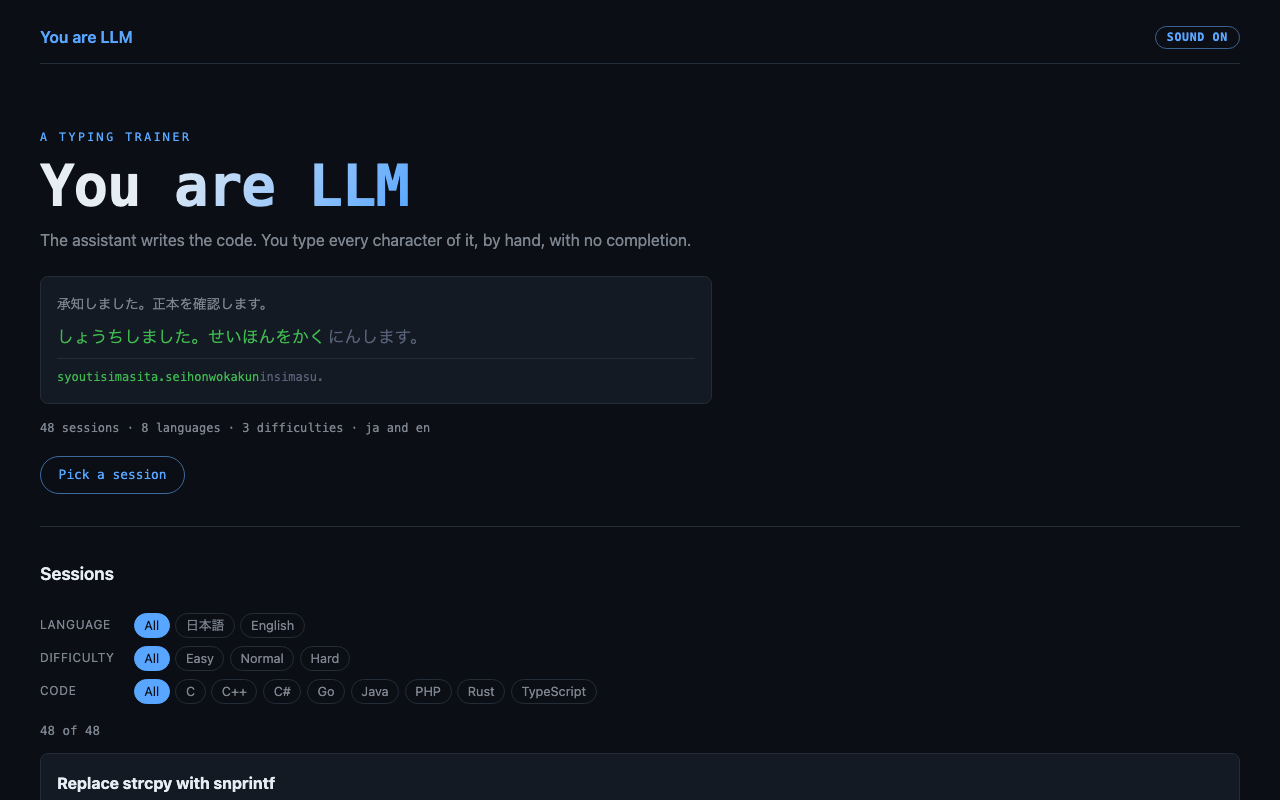
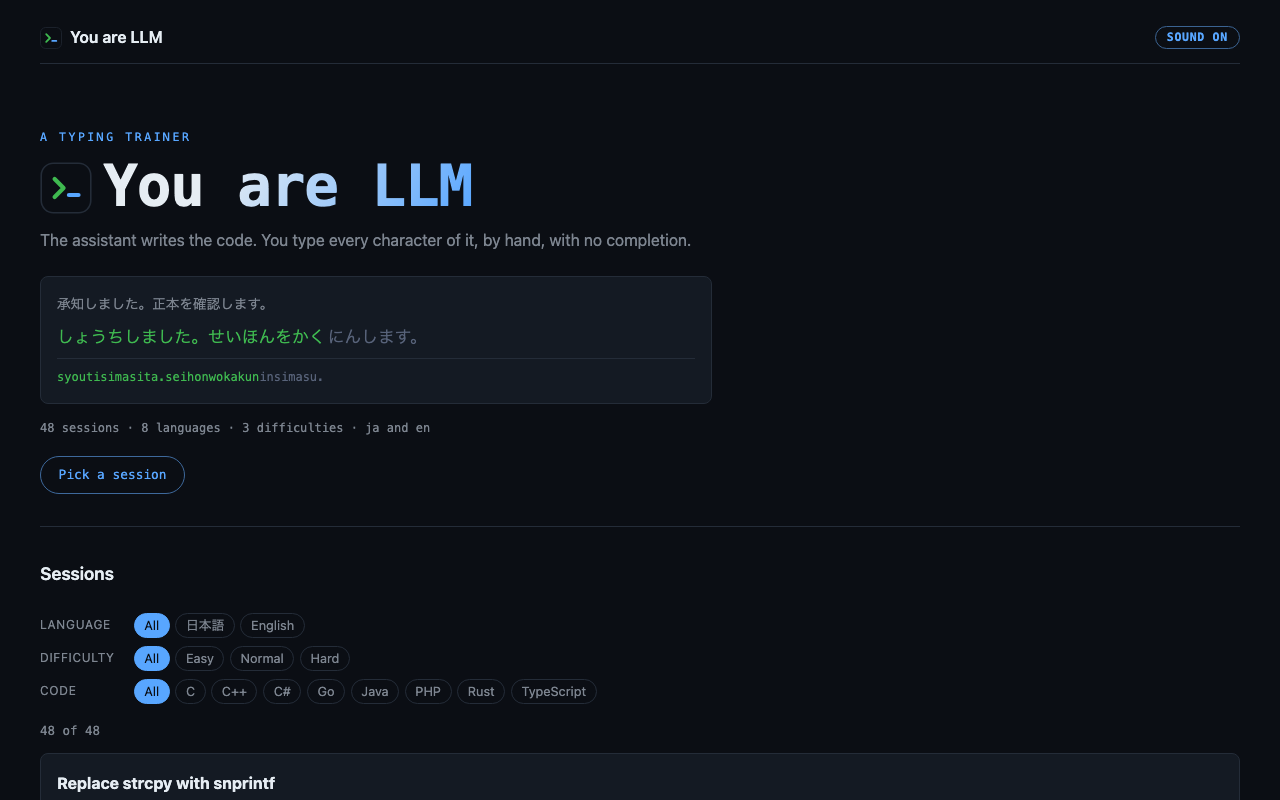
Make a shared session link worth sharing, and give the place a mark
A shared link pointed at a session, and a session fell through to `404.html`.
The page rendered fine for a person, but a crawler handed a 404 shows no
preview at all, and the tags it did find described the front page. Every
session now gets a real page written at build time, in both the flat and the
directory form, carrying its own title and description.

The copy button is a clipboard now rather than the word, and the header and the
intro carry a mark: a chevron and a cursor, which reads at twenty pixels where
a robot face would not. The preview images carry it too.

Facebook's `sharer.php` answers 400 to curl whatever you pass it, which looks
exactly like a broken share URL. It is bot detection. A real browser gets the
page with our link already in it, so the endpoint stays as it was.

Claude-Session: https://claude.ai/code/session_01A8jaHEoZZhxCKJa5Ei99bX

Changed region(s): [[0.0312, 0.1875, 0.375, 0.2812], [0.0312, 0.0312, 0.125, 0.0625]]

diff --git a/vite.config.ts b/vite.config.ts
@@ -1,4 +1,4 @@
-import { copyFileSync } from 'node:fs'
+import { copyFileSync, mkdirSync, readFileSync, readdirSync, writeFileSync } from 'node:fs'
 import { resolve } from 'node:path'
 import { tanstackRouter } from '@tanstack/router-plugin/vite'
 import react from '@vitejs/plugin-react'
@@ -7,28 +7,95 @@ import { defineConfig } from 'vitest/config'
 
 /** GitHub Pages serves this repository under its own name. */
 const BASE = '/you-are-llm/'
+const SITE = `https://mpyw.me${BASE}`
+const MATERIAL = 'src/materials/sessions'
+
+interface SessionMeta {
+  readonly id: string
+  readonly title: string
+  readonly summary: string
+}
+
+function isRecord(value: unknown): value is Record<string, unknown> {
+  return typeof value === 'object' && value !== null && !Array.isArray(value)
+}
+
+function text(value: unknown, where: string): string {
+  if (typeof value !== 'string') throw new Error(`${where} must be a string`)
+  return value
+}
+
+function readSessions(): readonly SessionMeta[] {
+  return readdirSync(MATERIAL)
+    .filter((name) => name.endsWith('.json'))
+    .map((name) => {
+      const raw: unknown = JSON.parse(readFileSync(resolve(MATERIAL, name), 'utf8'))
+      if (!isRecord(raw)) throw new Error(`${name} is not an object`)
+      return {
+        id: text(raw.id, `${name}.id`),
+        title: text(raw.title, `${name}.title`),
+        summary: text(raw.summary, `${name}.summary`),
+      }
+    })
+}
+
+function escapeAttribute(value: string): string {
+  return value
+    .replaceAll('&', '&amp;')
+    .replaceAll('<', '&lt;')
+    .replaceAll('>', '&gt;')
+    .replaceAll('"', '&quot;')
+}
+
+/** Swaps the shell's own title and description for one session's. */
+function pageFor(shell: string, session: SessionMeta): string {
+  const title = escapeAttribute(`${session.title} · You are LLM`)
+  const description = escapeAttribute(session.summary)
+  const url = escapeAttribute(`${SITE}sessions/${session.id}`)
+  return shell
+    .replace('<title>You are LLM</title>', `<title>${title}</title>`)
+    .replaceAll(/(<meta (?:property|name)="(?:og|twitter):title" content=)"[^"]*"/g, `$1"${title}"`)
+    .replaceAll(
+      /(<meta\s+(?:property|name)="(?:og|twitter):description"\s+content=\n?\s*)"[^"]*"/g,
+      `$1"${description}"`,
+    )
+    .replaceAll(/(<meta property="og:url" content=)"[^"]*"/g, `$1"${url}"`)
+}
 
 /**
- * GitHub Pages has no rewrite rule, so a deep link lands on 404. Serving the
- * same shell from 404.html lets the router take over from there.
+ * GitHub Pages has no server to render on, so every session gets a real page
+ * written at build time. Two of them: one that answers `/sessions/<id>` without
+ * a redirect and one for the directory form. A crawler that is handed a 404
+ * shows no preview at all, which is what the shared link used to get.
  */
-function spaFallback(): Plugin {
+function staticPages(): Plugin {
   let outDir = 'dist'
   return {
-    name: 'spa-fallback',
+    name: 'static-pages',
     apply: 'build',
     configResolved(config) {
       outDir = config.build.outDir
     },
     closeBundle() {
+      const shell = readFileSync(resolve(outDir, 'index.html'), 'utf8')
+      // Anything else deep linked still lands on the shell through 404.html.
       copyFileSync(resolve(outDir, 'index.html'), resolve(outDir, '404.html'))
+
+      for (const session of readSessions()) {
+        const page = pageFor(shell, session)
+        const flat = resolve(outDir, 'sessions', `${session.id}.html`)
+        const nested = resolve(outDir, 'sessions', session.id, 'index.html')
+        mkdirSync(resolve(outDir, 'sessions', session.id), { recursive: true })
+        writeFileSync(flat, page)
+        writeFileSync(nested, page)
+      }
     },
   }
 }
 
 export default defineConfig({
   base: BASE,
-  plugins: [tanstackRouter({ target: 'react', autoCodeSplitting: true }), react(), spaFallback()],
+  plugins: [tanstackRouter({ target: 'react', autoCodeSplitting: true }), react(), staticPages()],
   test: {
     include: ['src/**/*.test.{ts,tsx}'],
   },

diff --git a/src/typing/ShareRow.tsx b/src/typing/ShareRow.tsx
@@ -10,6 +10,28 @@ const COPY_LABEL: Readonly<Record<CopyState, string>> = {
   failed: 'Copy failed',
 }
 
+/** Three marks for the three states, so the button says what happened. */
+const COPY_PATHS: Readonly<Record<CopyState, string>> = {
+  idle: 'M6 3h5a1 1 0 0 1 1 1v1M5 5h6a1 1 0 0 1 1 1v7a1 1 0 0 1-1 1H5a1 1 0 0 1-1-1V6a1 1 0 0 1 1-1Z',
+  copied: 'M3.5 8.5l3 3 6-6.5',
+  failed: 'M8 3.5v5.5M8 12.2v.3',
+}
+
+function CopyMark({ state }: { readonly state: CopyState }) {
+  return (
+    <svg width="16" height="16" viewBox="0 0 16 16" aria-hidden="true" focusable="false">
+      <path
+        d={COPY_PATHS[state]}
+        fill="none"
+        stroke="currentColor"
+        strokeWidth="1.5"
+        strokeLinecap="round"
+        strokeLinejoin="round"
+      />
+    </svg>
+  )
+}
+
 const RESET_MS = 2000
 
 export function ShareRow({ card }: { readonly card: ShareCard }) {
@@ -56,8 +78,15 @@ export function ShareRow({ card }: { readonly card: ShareCard }) {
           {target.name}
         </a>
       ))}
-      <button type="button" className="chip" onClick={onCopy} data-state={copy}>
-        {COPY_LABEL[copy]}
+      <button
+        type="button"
+        className="chip is-icon"
+        onClick={onCopy}
+        data-state={copy}
+        aria-label={COPY_LABEL[copy]}
+        title={COPY_LABEL[copy]}
+      >
+        <CopyMark state={copy} />
       </button>
     </div>
   )

diff --git a/scripts/og.html b/scripts/og.html
@@ -52,6 +52,16 @@
         color: var(--accent);
       }
 
+      .wordmark {
+        display: flex;
+        align-items: center;
+        gap: 22px;
+      }
+
+      .wordmark svg {
+        flex: none;
+      }
+
       h1 {
         margin: 0;
         font-family: var(--mono);
@@ -132,7 +142,21 @@
   </head>
   <body>
     <p class="kicker">A typing trainer</p>
-    <h1>You are LLM</h1>
+    <div class="wordmark">
+      <svg width="86" height="86" viewBox="0 0 32 32">
+        <rect x="0.75" y="0.75" width="30.5" height="30.5" rx="7.5" fill="#0b0e14" stroke="#242c38" />
+        <path
+          d="M9 10.5l5.5 5.5L9 21.5"
+          fill="none"
+          stroke="#3fb950"
+          stroke-width="2.6"
+          stroke-linecap="round"
+          stroke-linejoin="round"
+        />
+        <rect x="16.5" y="19" width="8.5" height="2.6" rx="1.3" fill="#58a6ff" />
+      </svg>
+      <h1>You are LLM</h1>
+    </div>
     <p class="lede">The assistant writes the code. You type every character of it.</p>
     <div class="card">
       <p class="card-body">承知しました。正本を確認します。</p>

diff --git a/src/styles.css b/src/styles.css
@@ -114,12 +114,35 @@ h2 {
   color: var(--accent);
 }
 
+.brand {
+  display: inline-flex;
+  align-items: center;
+  gap: 0.5rem;
+  color: var(--text);
+}
+
+.brand:hover {
+  color: var(--accent);
+  text-decoration: none;
+}
+
+.logo {
+  display: block;
+  flex: none;
+}
+
 .hero-title {
+  display: flex;
+  align-items: center;
+  gap: 0.7rem;
   margin: 0;
   font-family: var(--mono);
   font-size: clamp(2.2rem, 7vw, 3.6rem);
   line-height: 1.05;
   letter-spacing: -0.02em;
+}
+
+.hero-title span {
   background: linear-gradient(120deg, var(--text) 30%, var(--accent));
   -webkit-background-clip: text;
   background-clip: text;
@@ -927,6 +950,14 @@ h2 {
   background: transparent;
   cursor: pointer;
   color: var(--dim);
+}
+
+.share .chip.is-icon {
+  display: inline-grid;
+  place-items: center;
+  inline-size: 2rem;
+  block-size: 1.75rem;
+  padding: 0;
 }
 
 .share button.chip[data-state='copied'] {

diff --git a/src/ui/Logo.tsx b/src/ui/Logo.tsx
@@ -1,0 +1,27 @@
+/**
+ * A terminal prompt: a chevron and a cursor. It reads at 20 pixels in the
+ * header and at 96 in the preview image, which a robot face would not.
+ */
+export function Logo({ size = 22 }: { readonly size?: number }) {
+  return (
+    <svg
+      className="logo"
+      width={size}
+      height={size}
+      viewBox="0 0 32 32"
+      role="img"
+      aria-label="You are LLM"
+    >
+      <rect x="0.75" y="0.75" width="30.5" height="30.5" rx="7.5" fill="#0b0e14" stroke="#242c38" />
+      <path
+        d="M9 10.5l5.5 5.5L9 21.5"
+        fill="none"
+        stroke="#3fb950"
+        strokeWidth="2.6"
+        strokeLinecap="round"
+        strokeLinejoin="round"
+      />
+      <rect x="16.5" y="19" width="8.5" height="2.6" rx="1.3" fill="#58a6ff" />
+    </svg>
+  )
+}

diff --git a/src/routes/index.tsx b/src/routes/index.tsx
@@ -9,6 +9,7 @@ import {
   sessions,
 } from '../materials'
 import { Demo } from '../typing/Demo'
+import { Logo } from '../ui/Logo'
 import { toSteps } from '../typing/steps'
 
 export interface Filters {
@@ -52,7 +53,10 @@ function Hero() {
   return (
     <section className="hero">
       <p className="hero-kicker">A typing trainer</p>
-      <h1 className="hero-title">You are LLM</h1>
+      <h1 className="hero-title">
+        <Logo size={52} />
+        <span>You are LLM</span>
+      </h1>
       <p className="hero-lede">
         The assistant writes the code. You type every character of it, by hand, with no completion.
       </p>

diff --git a/src/routes/__root.tsx b/src/routes/__root.tsx
@@ -1,6 +1,7 @@
 import { Link, Outlet, createRootRoute } from '@tanstack/react-router'
 import { soundBoard } from '../audio/SoundBoard'
 import { useMuted } from '../audio/useMuted'
+import { Logo } from '../ui/Logo'
 import '../styles.css'
 
 export const Route = createRootRoute({
@@ -13,7 +14,10 @@ function RootLayout() {
   return (
     <div className="shell">
       <nav className="shell-nav">
-        <Link to="/">You are LLM</Link>
+        <Link to="/" className="brand">
+          <Logo />
+          <span>You are LLM</span>
+        </Link>
         <button
           type="button"
           className="sound-toggle"

diff --git a/CLAUDE.md b/CLAUDE.md
@@ -80,3 +80,16 @@ the same path a third time.
 Changing where the site lives means changing all three. There is no build time substitution for
 them on purpose: a wrong `og:image` fails silently on someone else's server, and a literal string is
 the one thing a reader can check by eye.
+
+## A shared link has to answer 200
+
+GitHub Pages has no server, so a deep link used to fall through to `404.html`. The page rendered
+fine for a person, but a crawler handed a 404 shows no preview, and the meta tags it did find
+described the front page rather than the session.
+
+`static-pages` in `vite.config.ts` writes a real page per session at build time, in both the flat
+and the directory form, so whichever one Pages chooses answers 200 with that session's own title
+and description. Keep it that way when adding routes worth sharing.
+
+Facebook's `sharer.php` answers 400 to curl no matter what you pass it. That is bot detection, not
+a broken URL. Check it in a real browser before changing the endpoint.

diff --git a/README.md b/README.md
@@ -143,7 +143,11 @@ and builds before it deploys, so a red suite never reaches the site.
 | --- | --- |
 | Workflow | `.github/workflows/deploy.yml` |
 | Base path | `BASE` in `vite.config.ts` |
-| Deep links | `404.html`, written by the `spa-fallback` plugin |
+| Deep links | `404.html` and one page per session, from the `static-pages` plugin |
+
+Every session also gets a real page written at build time, under both `/sessions/<id>` and
+`/sessions/<id>/`, carrying its own title and description. A shared link used to fall through to
+`404.html`, and a crawler handed a 404 shows no preview at all.
 
 > [!NOTE]
 > The domain comes from `mpyw/mpyw.github.io`, which owns `mpyw.me`. Project sites under the same
